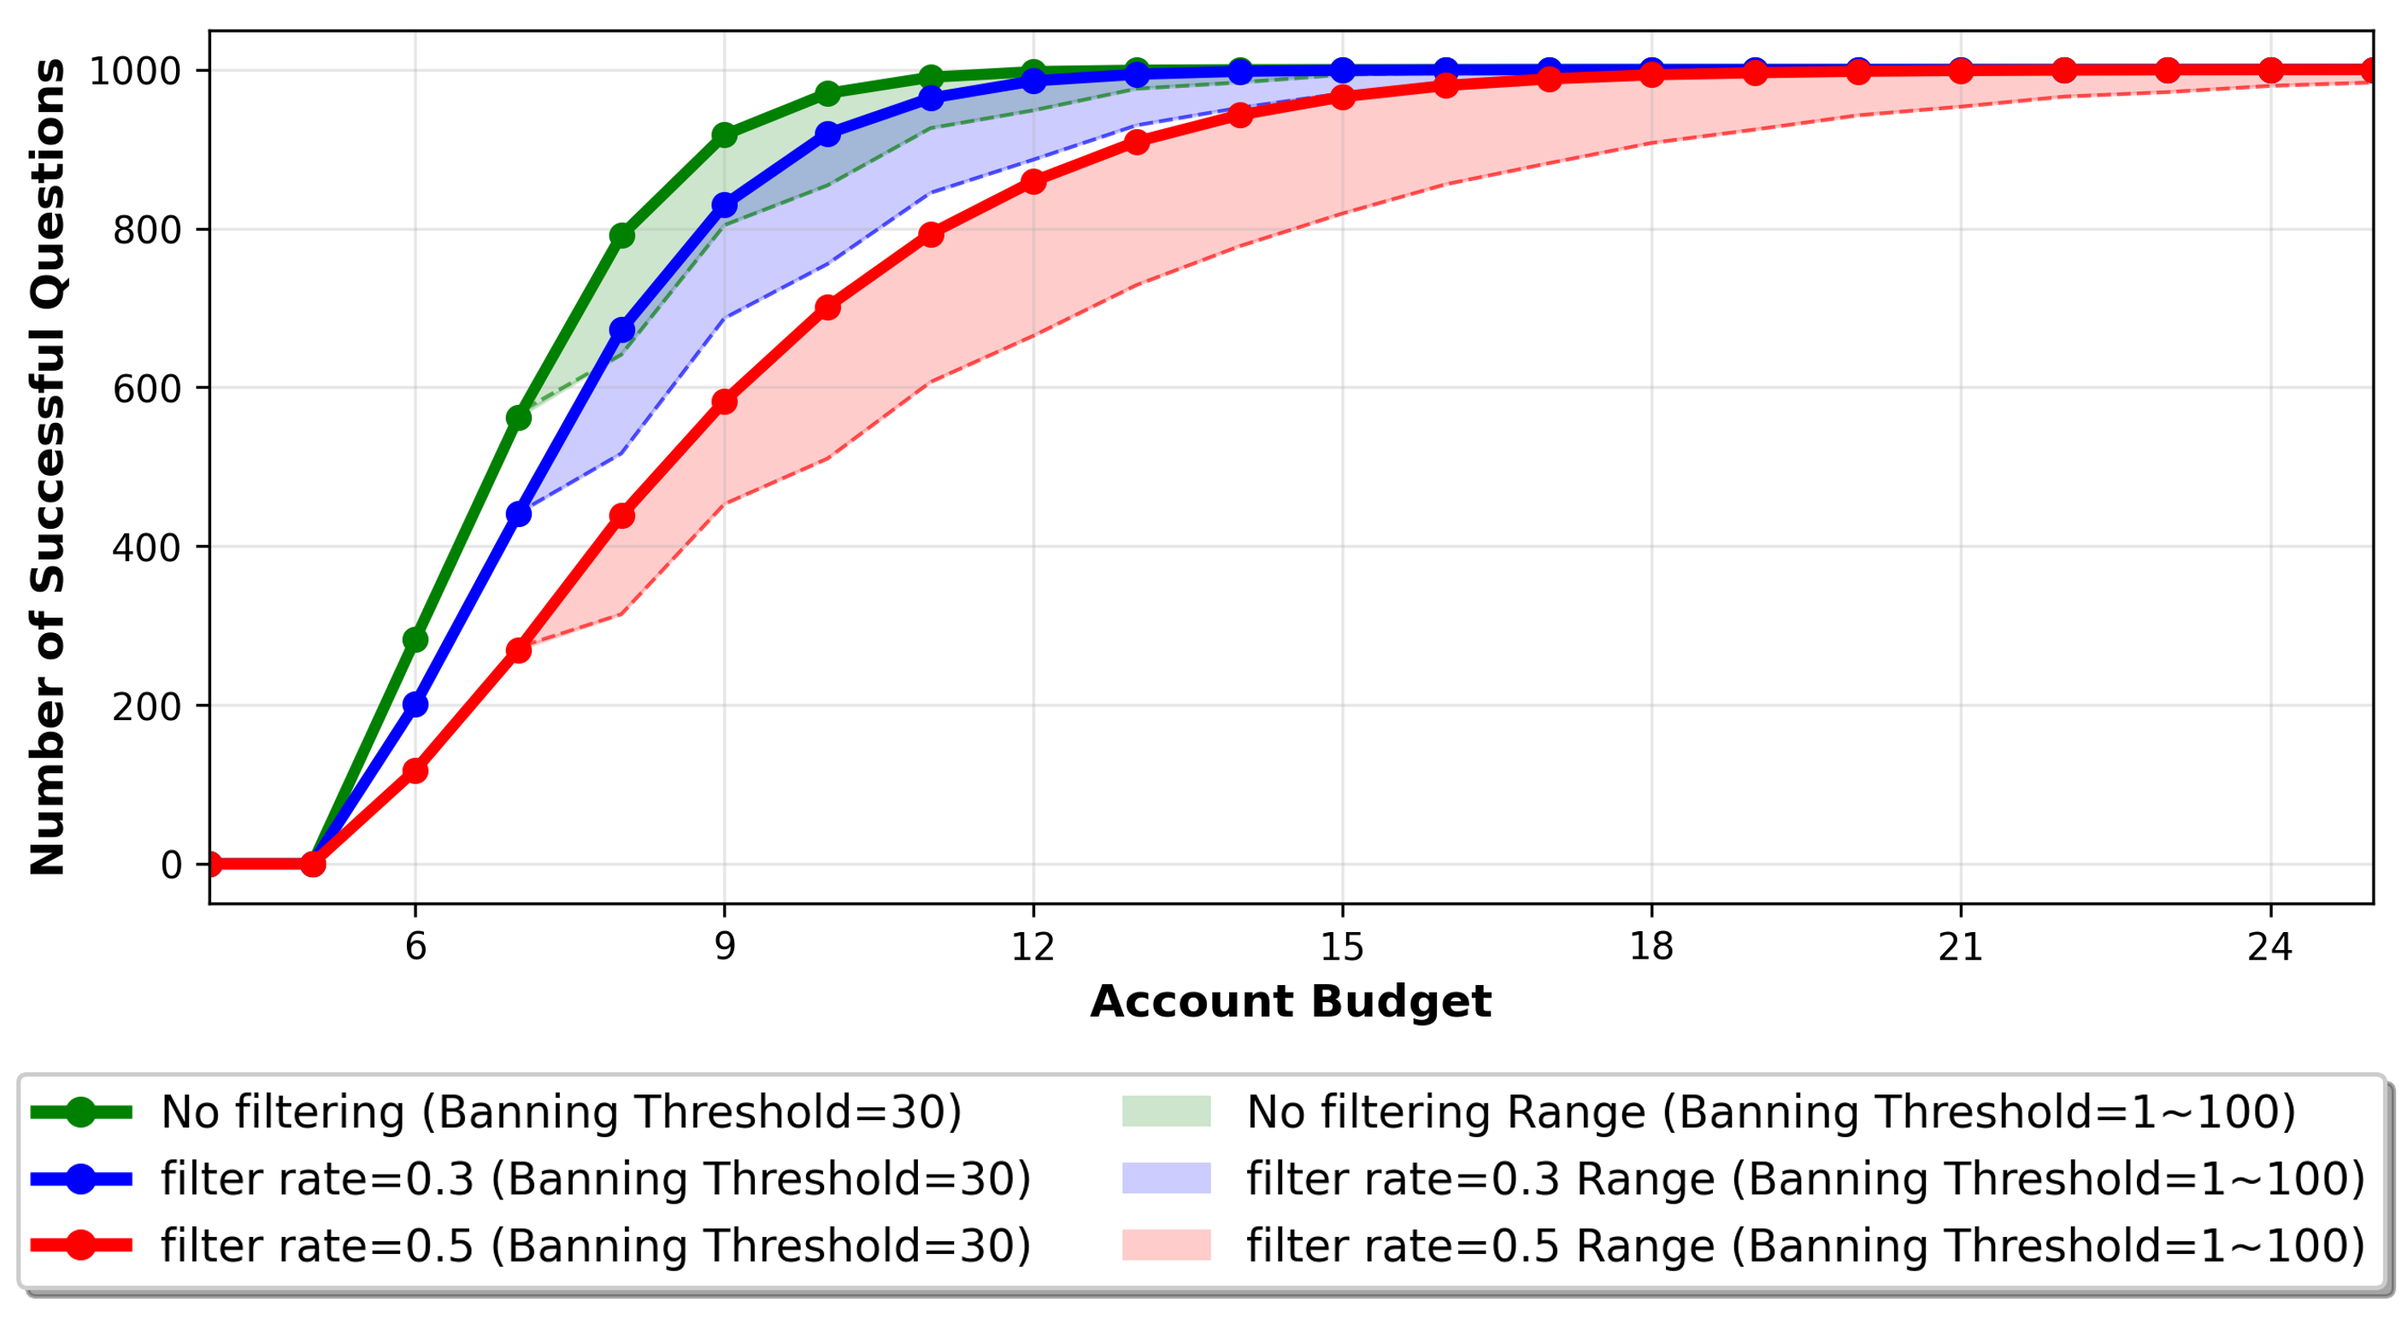
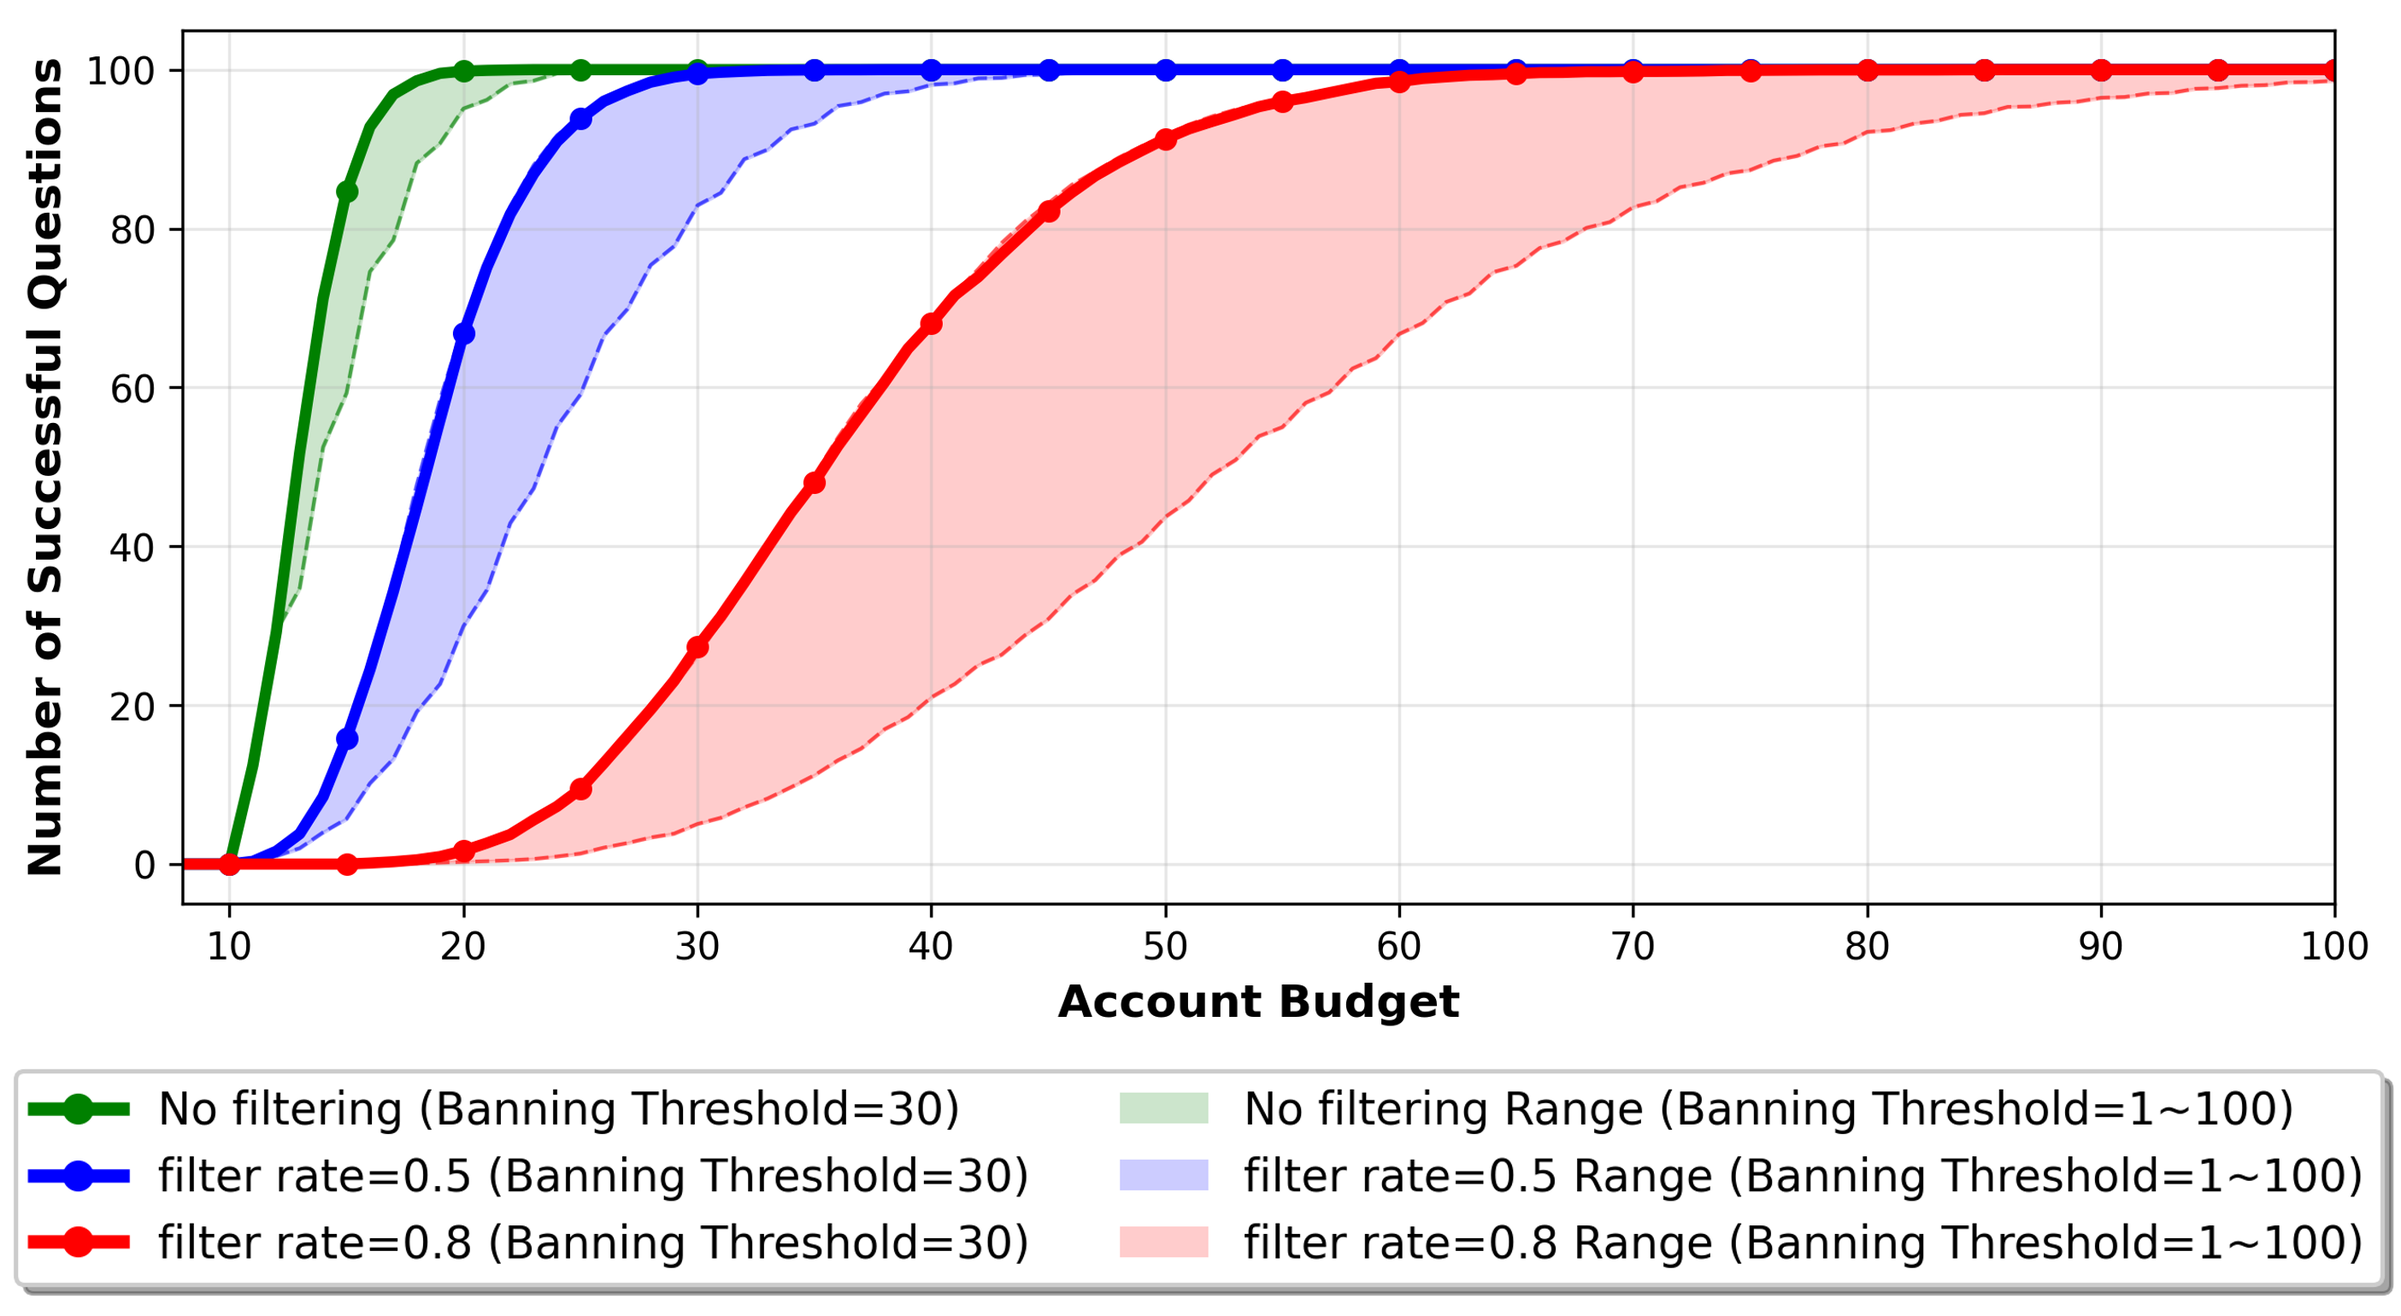
fix

diff --git a/drawGraph.py b/drawGraph.py
@@ -26,22 +26,22 @@ para = {
 para2name = {
     # inputStrategy
     "inputStrategy": "Attack-AccMgmt",
-    "flow": "onebyone",
-    "para": "pool",
+    "flow": "SU",
+    "para": "PP",
     # allocateStrategy
     "allocateStrategy": "Attack-PlatSel",
-    "random": "rand",
-    "different": "diff",
-    "single": "central",
+    "random": "R",
+    "different": "D",
+    "single": "C",
     # detectAlgothms
     "detectAlgothms": "Trace",
     "failure count": "failcount",
     # recordStrategy
     "recordStrategy": "Defence-Ban",
     "none": "norec",
-    "provider inner": "provself",
-    "simiglobal": "alliance",
-    "global": "openshare",
+    "provider inner": "NS",
+    "simiglobal": "RS",
+    "global": "GS",
 }
 
 
@@ -629,7 +629,7 @@ def drawGraph6(min_budget=0, max_budget=15):
     print(f"账号预算-成功问题数折线图已保存到 result/graph6_account_vs_success.png，x轴自适应范围：{budgets[start_idx]}-{budgets[end_idx]}")
 
 
-def drawGraph7(min_budget=0, max_budget=25):
+def drawGraph7(min_budget=0, max_budget=100):
     """
     重写的drawGraph7: 
     绘制不同账号预算下不同banbar（禁用概率）下的可解决问题数量
@@ -639,14 +639,14 @@ def drawGraph7(min_budget=0, max_budget=25):
     - 最终呈现两条曲线（banbar=0.3和banbar=0.5），每条被阴影包围
     """
     # 设置参数
-    banbar_values = [0, 0.3, 0.5]
+    banbar_values = [0, 0.5, 0.8]
     PN_values = [1, 30, 100]
     budgets = list(range(min_budget, max_budget + 1))
     
     # 临时保存原始设置
     original_num_questions = P.numQuestions
     original_N = P.N
-    P.numQuestions = 1000
+    P.numQuestions = 100
     
     # 存储所有结果数据
     all_results = {}
@@ -726,9 +726,10 @@ def drawGraph7(min_budget=0, max_budget=25):
         pn30_data = all_results[banbar][30]   # P.N=30
         pn100_data = all_results[banbar][100] # P.N=100
         
-        # 绘制P.N=30的实线
+        # 绘制P.N=30的实线 - 减少标记点密度
         plt.plot(budgets, pn30_data, color=color, linewidth=3, 
-                label=f'banbar={banbar} (P.N=30)', marker='o', markersize=6)
+                label=f'banbar={banbar} (P.N=30)', marker='o', markersize=5, 
+                markevery=5)  # 每5个数据点显示一个标记
         
         # 绘制P.N=1和P.N=100之间的阴影区域
         upper_bound = np.maximum(pn1_data, pn100_data)
@@ -743,106 +744,17 @@ def drawGraph7(min_budget=0, max_budget=25):
         plt.plot(budgets, pn100_data, color=color, linewidth=1, 
                 linestyle='--', alpha=0.6)
     
-    # 改进的自适应设置x轴范围
-    all_data = []
-    for banbar in banbar_values:
-        for pn_value in PN_values:
-            all_data.extend(all_results[banbar][pn_value])
+    # 手动设置x轴显示范围 - 用户可修改这些变量来控制显示范围
+    manual_start_budget = 8   # 手动设置起始预算值（修改这个值来调整起始位置）
+    manual_end_budget = 100    # 手动设置结束预算值（修改这个值来调整结束位置）
     
-    # 寻找数据开始变化的点
-    start_idx = 0
-    for banbar in banbar_values:
-        for pn_value in PN_values:
-            data = all_results[banbar][pn_value]
-            for i in range(1, len(data)):
-                if data[i] > data[0] + 1:
-                    start_idx = max(0, i - 2)
-                    break
-            break
-        break
+    # 将预算值转换为索引
+    start_idx = max(0, manual_start_budget - min_budget)
+    end_idx = min(len(budgets) - 1, manual_end_budget - min_budget)
     
-    # 改进的收敛检测算法
-    def is_converged(data, window_size=6, threshold_ratio=0.01):
-        """检测曲线是否真正收敛"""
-        if len(data) < window_size + 2:
-            return False
-        
-        # 检查最后window_size个点的变化
-        last_window = data[-window_size:]
-        total_range = max(data) - min(data)
-        
-        # 如果总范围为0，认为已收敛
-        if total_range == 0:
-            return True
-        
-        # 检查最后几个点的变化率
-        window_variation = max(last_window) - min(last_window)
-        variation_ratio = window_variation / total_range
-        
-        # 同时检查斜率是否接近0
-        if len(last_window) >= 3:
-            # 计算最后几个点的平均斜率
-            slopes = []
-            for i in range(len(last_window) - 1):
-                slope = abs(last_window[i+1] - last_window[i])
-                slopes.append(slope)
-            avg_slope = np.mean(slopes)
-            slope_ratio = avg_slope / (total_range / len(data)) if total_range > 0 else 0
-            
-            # 变化率小且斜率小，认为收敛
-            return variation_ratio < threshold_ratio and slope_ratio < 0.02
-        
-        return variation_ratio < threshold_ratio
-    
-    # 寻找真正收敛的点
-    end_idx = len(budgets) - 1
-    convergence_found = False
-    
-    # 检查所有曲线是否都收敛
-    for budget_idx in range(len(budgets) - 1, max(len(budgets)//2, 10), -1):
-        all_converged = True
-        for banbar in banbar_values:
-            for pn_value in PN_values:
-                data = all_results[banbar][pn_value]
-                partial_data = data[:budget_idx+1]
-                if not is_converged(partial_data):
-                    all_converged = False
-                    break
-            if not all_converged:
-                break
-        
-        if all_converged:
-            end_idx = min(len(budgets) - 1, budget_idx + 3)  # 在收敛点后再显示3个点
-            convergence_found = True
-            break
-    
-    # 如果没有找到收敛点，或者收敛点太早，显示更多数据
-    if not convergence_found or end_idx - start_idx < 15:
-        # 使用更宽松的标准，寻找变化很小的区域
-        for budget_idx in range(len(budgets) - 1, max(len(budgets)*2//3, 15), -1):
-            max_recent_change = 0
-            for banbar in banbar_values:
-                for pn_value in PN_values:
-                    data = all_results[banbar][pn_value]
-                    if budget_idx >= 6 and budget_idx < len(data):
-                        recent_change = abs(data[budget_idx] - data[budget_idx-3])
-                        total_range = max(data) - min(data)
-                        if total_range > 0:
-                            change_ratio = recent_change / total_range
-                            max_recent_change = max(max_recent_change, change_ratio)
-            
-            # 如果最大变化率小于1%，认为可以截断
-            if max_recent_change < 0.01:
-                end_idx = min(len(budgets) - 1, budget_idx + 4)
-                break
-    
-    # 确保显示范围合理
-    start_idx = max(0, start_idx)
-    end_idx = min(len(budgets) - 1, end_idx)
-    
-    # 确保至少显示足够的点来观察趋势
-    if end_idx - start_idx < 12:
-        end_idx = min(len(budgets) - 1, start_idx + 15)
+    # 确保索引有效
+    start_idx = max(0, min(start_idx, len(budgets) - 1))
+    end_idx = max(start_idx, min(end_idx, len(budgets) - 1))
     
     plt.xlim(budgets[start_idx], budgets[end_idx])
     
@@ -1130,7 +1042,7 @@ def drawGraph7Legend():
     ax.axis('off')  # 隐藏坐标轴
     
     # 创建图例项
-    banbar_values = [0, 0.3, 0.5]
+    banbar_values = [0, 0.5, 0.8]
     colors = ['green', 'blue', 'red']
     
     # 创建所有图例元素，按照线段和阴影的顺序交替排列
@@ -1207,10 +1119,149 @@ def drawGraph8Legend():
     plt.close()
 
 
+def drawGraph9(colorbar_pad=0.02, yticklabel_offset=10, xticklabel_offset=10, annot_fontsize=12):
+    """绘制防御策略与banbar值组合的热力图（9x6）
+    基于Graph2，纵轴为防御策略+banbar值的组合，横轴为攻击策略
+    colorbar_pad: 色条与热力图的间距
+    yticklabel_offset: 纵坐标标签名称与坐标轴的距离（单位为points）
+    xticklabel_offset: 横坐标标签名称与坐标轴的距离（单位为points）
+    annot_fontsize: 热力图数字字体大小
+    """
+    P.numQuestions = 100
+    P.N = 3
+    banbar_values = [0, 0.5, 0.8]
+    
+    # 获取数据
+    result = []
+    for banbar in banbar_values:
+        for globalInputStrategy in para["inputStrategy"]:
+            for globalAllocateStrategy in para["allocateStrategy"]:
+                for globalDetectAlgothms in para["detectAlgothms"]:
+                    for globalDefendStrategy in para["defendStrategy"]:
+                        attackMethod = globalInputStrategy + '-' + globalAllocateStrategy
+                        defendMethod = globalDefendStrategy  # 只保留防御策略名
+                        defendBanbarMethod = f"{globalDefendStrategy}-banbar{banbar}"  # 防御策略+banbar组合
+                        globalPunishment = 'account'
+                        
+                        finalQuestionList = process(
+                            inputStrategy=globalInputStrategy,
+                            allocateStrategy=globalAllocateStrategy,
+                            detectAlgothms=globalDetectAlgothms,
+                            defendStrategy=globalDefendStrategy,
+                            punishment=globalPunishment,
+                            questionList=[Question(random.randint(1, 4), P.maxStep, evaluateScoreMatrix) for _ in range(P.numQuestions)],
+                            banbar=banbar
+                        )
+                        
+                        # 计算失败次数，与Graph2相同的逻辑
+                        if globalDefendStrategy == "global":
+                            fail_counts = [(question_.countAllHistory()[1] // P.N) for question_ in finalQuestionList]
+                            mean_fail = np.mean(fail_counts)
+                        elif globalDefendStrategy == "simi-global":
+                            mean_fail = np.mean([(question_.countCountryHistory('Chi')[1] // P.N) for question_ in finalQuestionList]) + np.mean([(question_.countProviderHistory('For')[1]) / 2 for question_ in finalQuestionList])
+                            mean_fail = mean_fail / 2
+                        elif globalDefendStrategy == "provider inner":
+                            mean_fail = 0
+                            for provider in ['openAI', 'meta', 'tongyi', 'zhipu', 'deepseek']:
+                                mean_fail += np.mean([(question_.countProviderHistory(provider)[1] // P.N) for question_ in finalQuestionList])
+                            mean_fail = mean_fail / 5
+                        else:
+                            raise Exception(f"Invalid defend strategy {globalDefendStrategy}")
+                        
+                        print(f"banbar: {banbar}, attack method: {attackMethod}, defend method: {defendMethod}, mean fail: {mean_fail}")
+                        result.append(
+                            {
+                                "attackMethod": attackMethod,
+                                "defendBanbarMethod": defendBanbarMethod,
+                                "mean_fail": mean_fail,
+                                "banbar": banbar
+                            }
+                        )
+
+    df = pd.DataFrame(result)
+
+    # 转换显示名称
+    def convert_attack_method(method):
+        parts = method.split('-')
+        if len(parts) == 2:
+            return para2name.get(parts[0], parts[0]) + '-' + para2name.get(parts[1], parts[1])
+        return method
+
+    def convert_defend_banbar_method(method):
+        # 格式：defendStrategy-banbar0.5
+        if '-banbar' in method:
+            defend_part, banbar_part = method.split('-banbar')
+            if defend_part == 'simi-global':
+                defend_part = 'simiglobal'
+            defend_name = para2name.get(defend_part, defend_part)
+            
+            # 映射banbar值到描述性名称
+            banbar_mapping = {
+                '0': 'N',
+                '0.5': 'M', 
+                '0.8': 'S'
+            }
+            banbar_display = banbar_mapping.get(banbar_part, banbar_part)
+            return f"{defend_name}-{banbar_display}"
+        return method
+
+    attack_methods = sorted(df['attackMethod'].unique())
+    defend_banbar_methods = []
+    
+    # 按banbar值和防御策略的顺序组织纵轴
+    for defend_strategy in para["defendStrategy"]:
+        for banbar in banbar_values:
+            defend_banbar_method = f"{defend_strategy}-banbar{banbar}"
+            defend_banbar_methods.append(defend_banbar_method)
+    
+    attack_methods_disp = [convert_attack_method(m) for m in attack_methods]
+    defend_banbar_methods_disp = [convert_defend_banbar_method(m) for m in defend_banbar_methods]
+
+    # 构建热力图数据矩阵 (9行×6列)
+    heatmap_data = np.zeros((len(defend_banbar_methods), len(attack_methods)))
+    for i, d in enumerate(defend_banbar_methods):
+        for j, a in enumerate(attack_methods):
+            val = df[(df['attackMethod'] == a) & (df['defendBanbarMethod'] == d)]['mean_fail']
+            heatmap_data[i, j] = val.values[0] if not val.empty else np.nan
+
+    # 绘制热力图
+    plt.figure(figsize=(12, 8))  # 调整尺寸适应9x6矩阵
+    ax = sns.heatmap(
+        heatmap_data,
+        annot=True,
+        fmt='.1f',
+        cmap='Reds',
+        xticklabels=attack_methods_disp,
+        yticklabels=defend_banbar_methods_disp,
+        cbar_kws={'label': 'Average of Detected Count per Question', 'pad': colorbar_pad}
+    )
+    
+    # 在每三行之间添加白色分割线（区分不同banbar值的组）
+    # 第3行后添加线（在索引3的位置）
+    ax.axhline(y=3, color='white', linewidth=3)
+    # 第6行后添加线（在索引6的位置）
+    ax.axhline(y=6, color='white', linewidth=3)
+    
+    # 调整热力图数字字体大小
+    for text in ax.texts:
+        text.set_fontsize(annot_fontsize)
+    
+    ax.set_xlabel('Attack Strategy', fontsize=12, fontweight='bold', labelpad=xticklabel_offset)
+    ax.set_ylabel('Defense Policy', fontsize=12, fontweight='bold', labelpad=yticklabel_offset)
+    plt.xticks(rotation=0, ha='center', fontsize=10)
+    plt.yticks(rotation=0, fontsize=10)
+    plt.tight_layout()
+    plt.savefig('result/graph9_defense_banbar_heatmap.png', dpi=300, bbox_inches='tight')
+    # plt.show()
+    print("\n=== Graph9 Heatmap of Defense-Banbar Combinations Saved ===")
+    print(f"Failure Count Range: {np.nanmin(heatmap_data):.2f} - {np.nanmax(heatmap_data):.2f}")
+    print(f"Heatmap Shape: {heatmap_data.shape} (9 defense-banbar combinations × 6 attack strategies)")
+
+
 if __name__ == '__main__':
     # drawGraph1()
-    drawGraph2()
-    drawGraph3()
+    # drawGraph2()
+    # drawGraph3()
     # drawGraph4()
     # drawGraph5()
     # drawGraph6()
@@ -1218,4 +1269,5 @@ if __name__ == '__main__':
     # drawGraph8()
     # drawGraph7Legend()
     # drawGraph8Legend()
+    drawGraph9()
 
